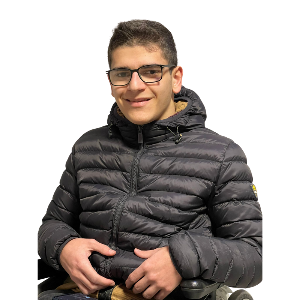
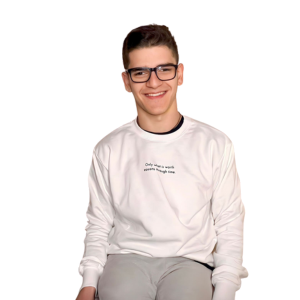
fix

diff --git a/src/pages/HomeScreen/HomeScreen.jsx b/src/pages/HomeScreen/HomeScreen.jsx
@@ -11,7 +11,7 @@ function HomeScreen () {
         {/* <SliderGallery/> */}
         <Container fluid className="containerBody">
         
-            <Row>
+            {/* <Row>
                 <Col sm="12" style={{padding: "0px"}}>
                     <div className="m-1">
                         <h2 className="p-2 bg-gradient text-white">INIZIO DEL NUOVO PALINSESTO</h2>
@@ -22,7 +22,7 @@ function HomeScreen () {
                     </div>
                 </Col>
             </Row>
-            <br/>
+            <br/>*/}
             <Row>
                 <Col sm="12" style={{padding: "0px"}}>
                     <div className="m-1">

diff --git a/src/pages/PalinsestoScreen/palinsesto.js b/src/pages/PalinsestoScreen/palinsesto.js
@@ -129,7 +129,7 @@ export const mer = [
         start: "23:00",
         end: "24:00",
         program: "TeeJay Zone (Funkyhouse/Deeptech)",
-        speakers: "Alfonso Califano"
+        speakers: "Dj Alfonso Califano"
     },
     {
         img: "img/staff/tano_dj.png",
@@ -247,7 +247,7 @@ export const ven = [
         start: "24:00",
         end: "01:00",
         program: "TeeJay Zone (Tech-house)",
-        speakers: "Alfonso Califano"
+        speakers: "Dj Alfonso Califano"
     },
 ];
 

diff --git a/src/pages/StaffScreen/staff.js b/src/pages/StaffScreen/staff.js
@@ -172,7 +172,7 @@ export const tecnici = [
 export const dj = [
     {
         img: "img/staff/alfonso_califano.png",
-        name: "Alfonso Califano",
+        name: "DJ Alfonso Califano",
         roles: "DJ",
     },
 	{
